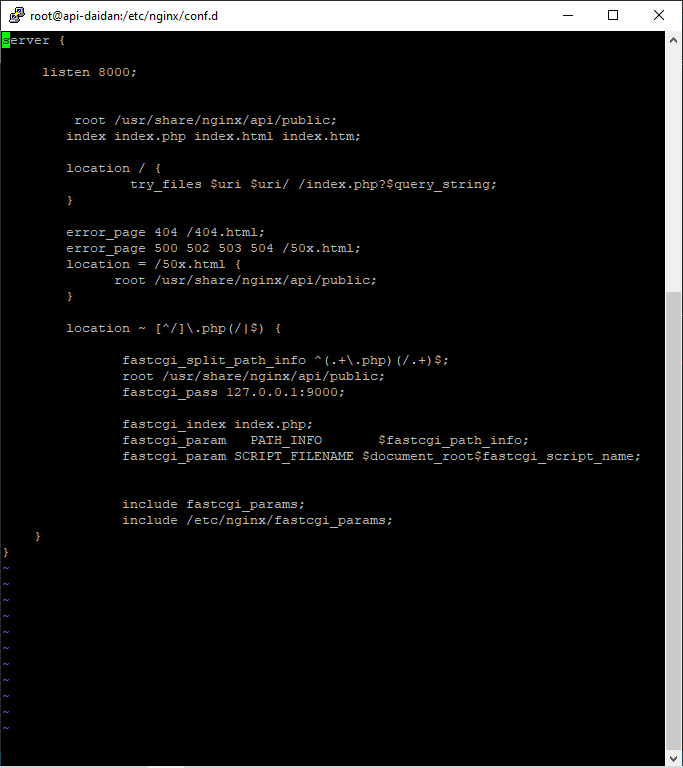
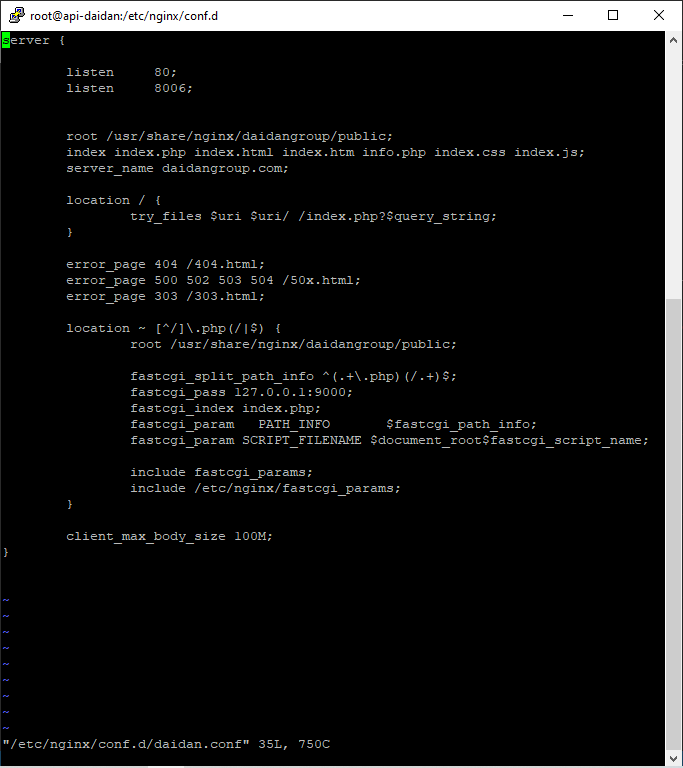
update conf-d-example

diff --git a/README.md b/README.md
@@ -1,7 +1,7 @@
 [Daidan Projects Documentation](https://github.com/dennykharyan/daidan-documentation "Daidan Projects Documentation")
 
 
-# global configuration
+# Global Configuration
 <table>
     <tr><td>IP Address</td><td>192.168.1.56</td></tr>
     <tr><td>Operation System</td><td>Cent-OS</td></tr>
@@ -14,10 +14,10 @@
 </table>
 
 You can connect directly to the server using [PuTTY](https://www.chiark.greenend.org.uk/~sgtatham/putty/latest.html) either in local network or trought VPN connection. For the VPN connection detail you can ask to the Administrator. Here is the example of PuTTY configuration:
-------
+
 ![alt text](/img/putty-configuration.png "putty configuration")
 
-# project root directory
+# The Project Root Directory
 The project root directory is in 
 ```
 /usr/share/nginx/
@@ -33,16 +33,19 @@ and
 /usr/share/nginx/daidangroup-finacc
 ```
 
-each directory stored in [daidangroup](https://github.com/itdaidangrup/daidangroup) and [daidangroup-finacc](https://github.com/itdaidangrup/daidangroup-finacc). You can login with `it@daidangrup.com` github account to see what's in it.
+Each directory stored in [daidangroup](https://github.com/itdaidangrup/daidangroup) and [daidangroup-finacc](https://github.com/itdaidangrup/daidangroup-finacc). You can login with `it@daidangrup.com` github account to see what's in it.
 
-## creating new directory
+## Creating New Directory
 Typically we sync the project directory with github so we can easly pull from the repository. For example we will create new peoject directory in project root directory using 
 
 ```
 git clone https://github.com/itdaidangrup/daidan.git
 ```
 
-Git will create new folder exactly same with repository name. When all file successfully cloned to local repository, then you should make a configuration file so the web server can managed to access the directory. The config file is placed in 
+Git will create new folder exactly same with repository name.
+
+## Creating New Configuration File
+When all file successfully cloned to local repository, then you should make a configuration file so the web server can managed to access the directory. The config file is placed in 
 
 ```
 /etc/nginx/conf.d/
@@ -56,6 +59,14 @@ nano /etc/nginx/conf.d/daidan.com.conf
 
 Here is the example of basic configuration file
 ![alt text](/img/conf-d-example.PNG "Config file example")
+
+1. Port Listening
+As you can see, the configuration file contain information for where the project stored and what port should user use to access the application. Because we using PHP as programming language, we should still listen to port 80 as written on line 3. In the next line you can add which port the user can access the application, in this example we using port 8006. You dont need to setup the firewall in this documentation, because all this projects only be able to access throught VPN connection so we decided not to use firewall. 
+2. Project Root Path
+On line 7 as you can see we tell the server which folder that contain the application, in this case the public root project is in `/usr/share/nginx/daidangroup/public`. Make sure that you can access the directory by see the owner of the folder.
+3. Acceptable File Format
+On The next line we defined what kind of acceptable file format. If the new project is using another programming language you can set the entry point with this way. You can read the documentation of which programming language you used.
+
 # database
 # efiling directory
 # /usr/share/nginx/daidangroup
